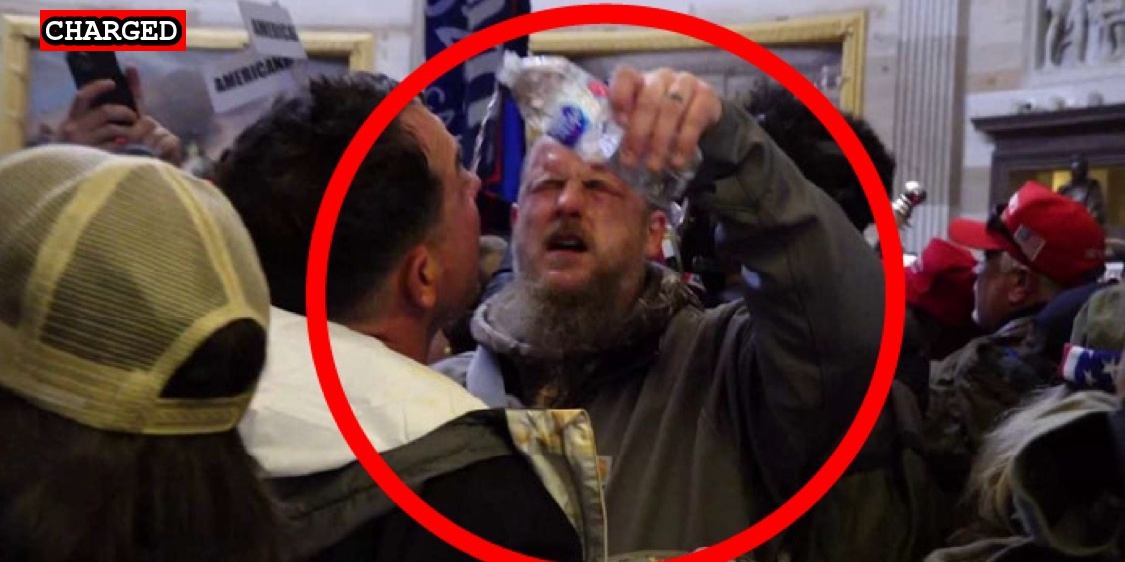
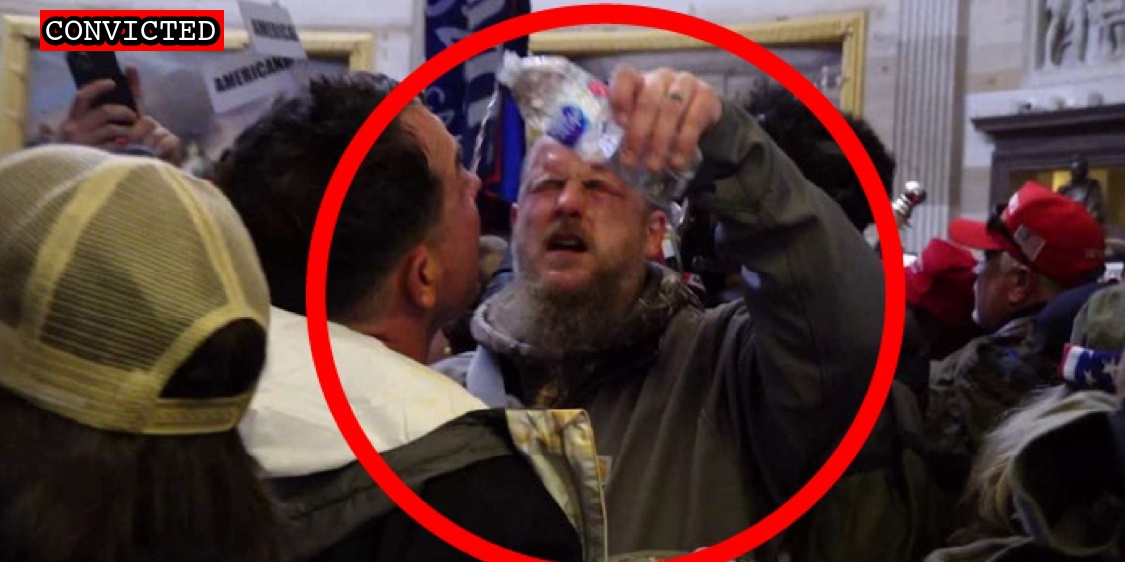
Latest import

Changed region(s): [[0.0311, 0.0, 0.2178, 0.0907]]

diff --git a/docs/_suspects/jon-mott.md b/docs/_suspects/jon-mott.md
@@ -4,11 +4,11 @@ lastName: Mott
 hashtag: JonMott
 aka:
 residence: Arkansas
-status: Charged
+status: Convicted
 date: 2021-05-11
 charged: 2021-05-11
 indicted:
-convicted:
+convicted: 2022-11-30
 acquitted:
 sentenced:
 dismissed:
@@ -31,7 +31,7 @@ raid:
 perpwalk:
 quote:
 title: Jon Mott charged on May 11, 2021
-description: Click for latest case details. Suspects innocent until proven guilty.
+description: Convicted on November 30, 2022. Click for latest case details.
 author: seditiontrack
 layout: suspect
 published: true
@@ -40,9 +40,15 @@ caseName: USA v. MOTT
 judge: Royce C. Lamberth
 videos:
 charges:
+- code: 40 USC § 5104(e)(2)(G)
+  title: Parading, demonstrating or picketing in a Capitol building
+  url: https://www.law.cornell.edu/uscode/text/40/5104
+  felony: false
 sentence:
 ---
 - [News Report](https://www.ktlo.com/2021/05/14/mott-charged-with-four-offenses-stemming-from-capitol-riot/)
 - [Complaint](https://www.justice.gov/usao-dc/case-multi-defendant/file/1394306/download)
 - [Statement of Facts](https://www.justice.gov/usao-dc/case-multi-defendant/file/1394311/download)
 - [Information](https://www.justice.gov/usao-dc/case-multi-defendant/file/1415516/download)
+- [Plea Agreement](https://www.justice.gov/usao-dc/case-multi-defendant/file/1554841/download)
+- [Statement of Offense](https://www.justice.gov/usao-dc/case-multi-defendant/file/1554846/download)

diff --git a/docs/_suspects/dale-huttle.md b/docs/_suspects/dale-huttle.md
@@ -35,15 +35,14 @@ description: Click for latest case details. Suspects innocent until proven guilt
 author: seditiontrack
 layout: suspect
 published: true
-caseNumber:
+caseNumber: 
 caseName: USA v. HUTTLE
 judge:
 videos:
 charges:
 sentence:
 ---
-
 - [News Report](https://www.cbsnews.com/chicago/news/dale-huttle-of-crown-point-charged-with-assault-in-jan-6-capitol-riot/)
-- [Complaint](https://www.justice.gov/usao-dc/press-release/file/1553876/download)
-- [Statement of Facts](https://www.justice.gov/usao-dc/press-release/file/1553881/download)
+- [Complaint](https://www.justice.gov/usao-dc/case-multi-defendant/file/1554306/download)
+- [Statement of Facts](https://www.justice.gov/usao-dc/case-multi-defendant/file/1554311/download)
 - [DOJ Press Release](https://www.justice.gov/usao-dc/pr/indiana-man-arrested-felony-charges-actions-during-jan-6-capitol-breach-0)

diff --git a/docs/_suspects/matthew-huttle.md b/docs/_suspects/matthew-huttle.md
@@ -43,6 +43,6 @@ charges:
 sentence:
 ---
 - [News Report](https://www.cbsnews.com/chicago/news/dale-huttle-of-crown-point-charged-with-assault-in-jan-6-capitol-riot/)
-- [Complaint](https://www.justice.gov/usao-dc/press-release/file/1553876/download)
-- [Statement of Facts](https://www.justice.gov/usao-dc/press-release/file/1553881/download)
+- [Complaint](https://www.justice.gov/usao-dc/case-multi-defendant/file/1554316/download)
+- [Statement of Facts](https://www.justice.gov/usao-dc/case-multi-defendant/file/1554321/download)
 - [DOJ Press Release](https://www.justice.gov/usao-dc/pr/indiana-man-arrested-felony-charges-actions-during-jan-6-capitol-breach-0)
